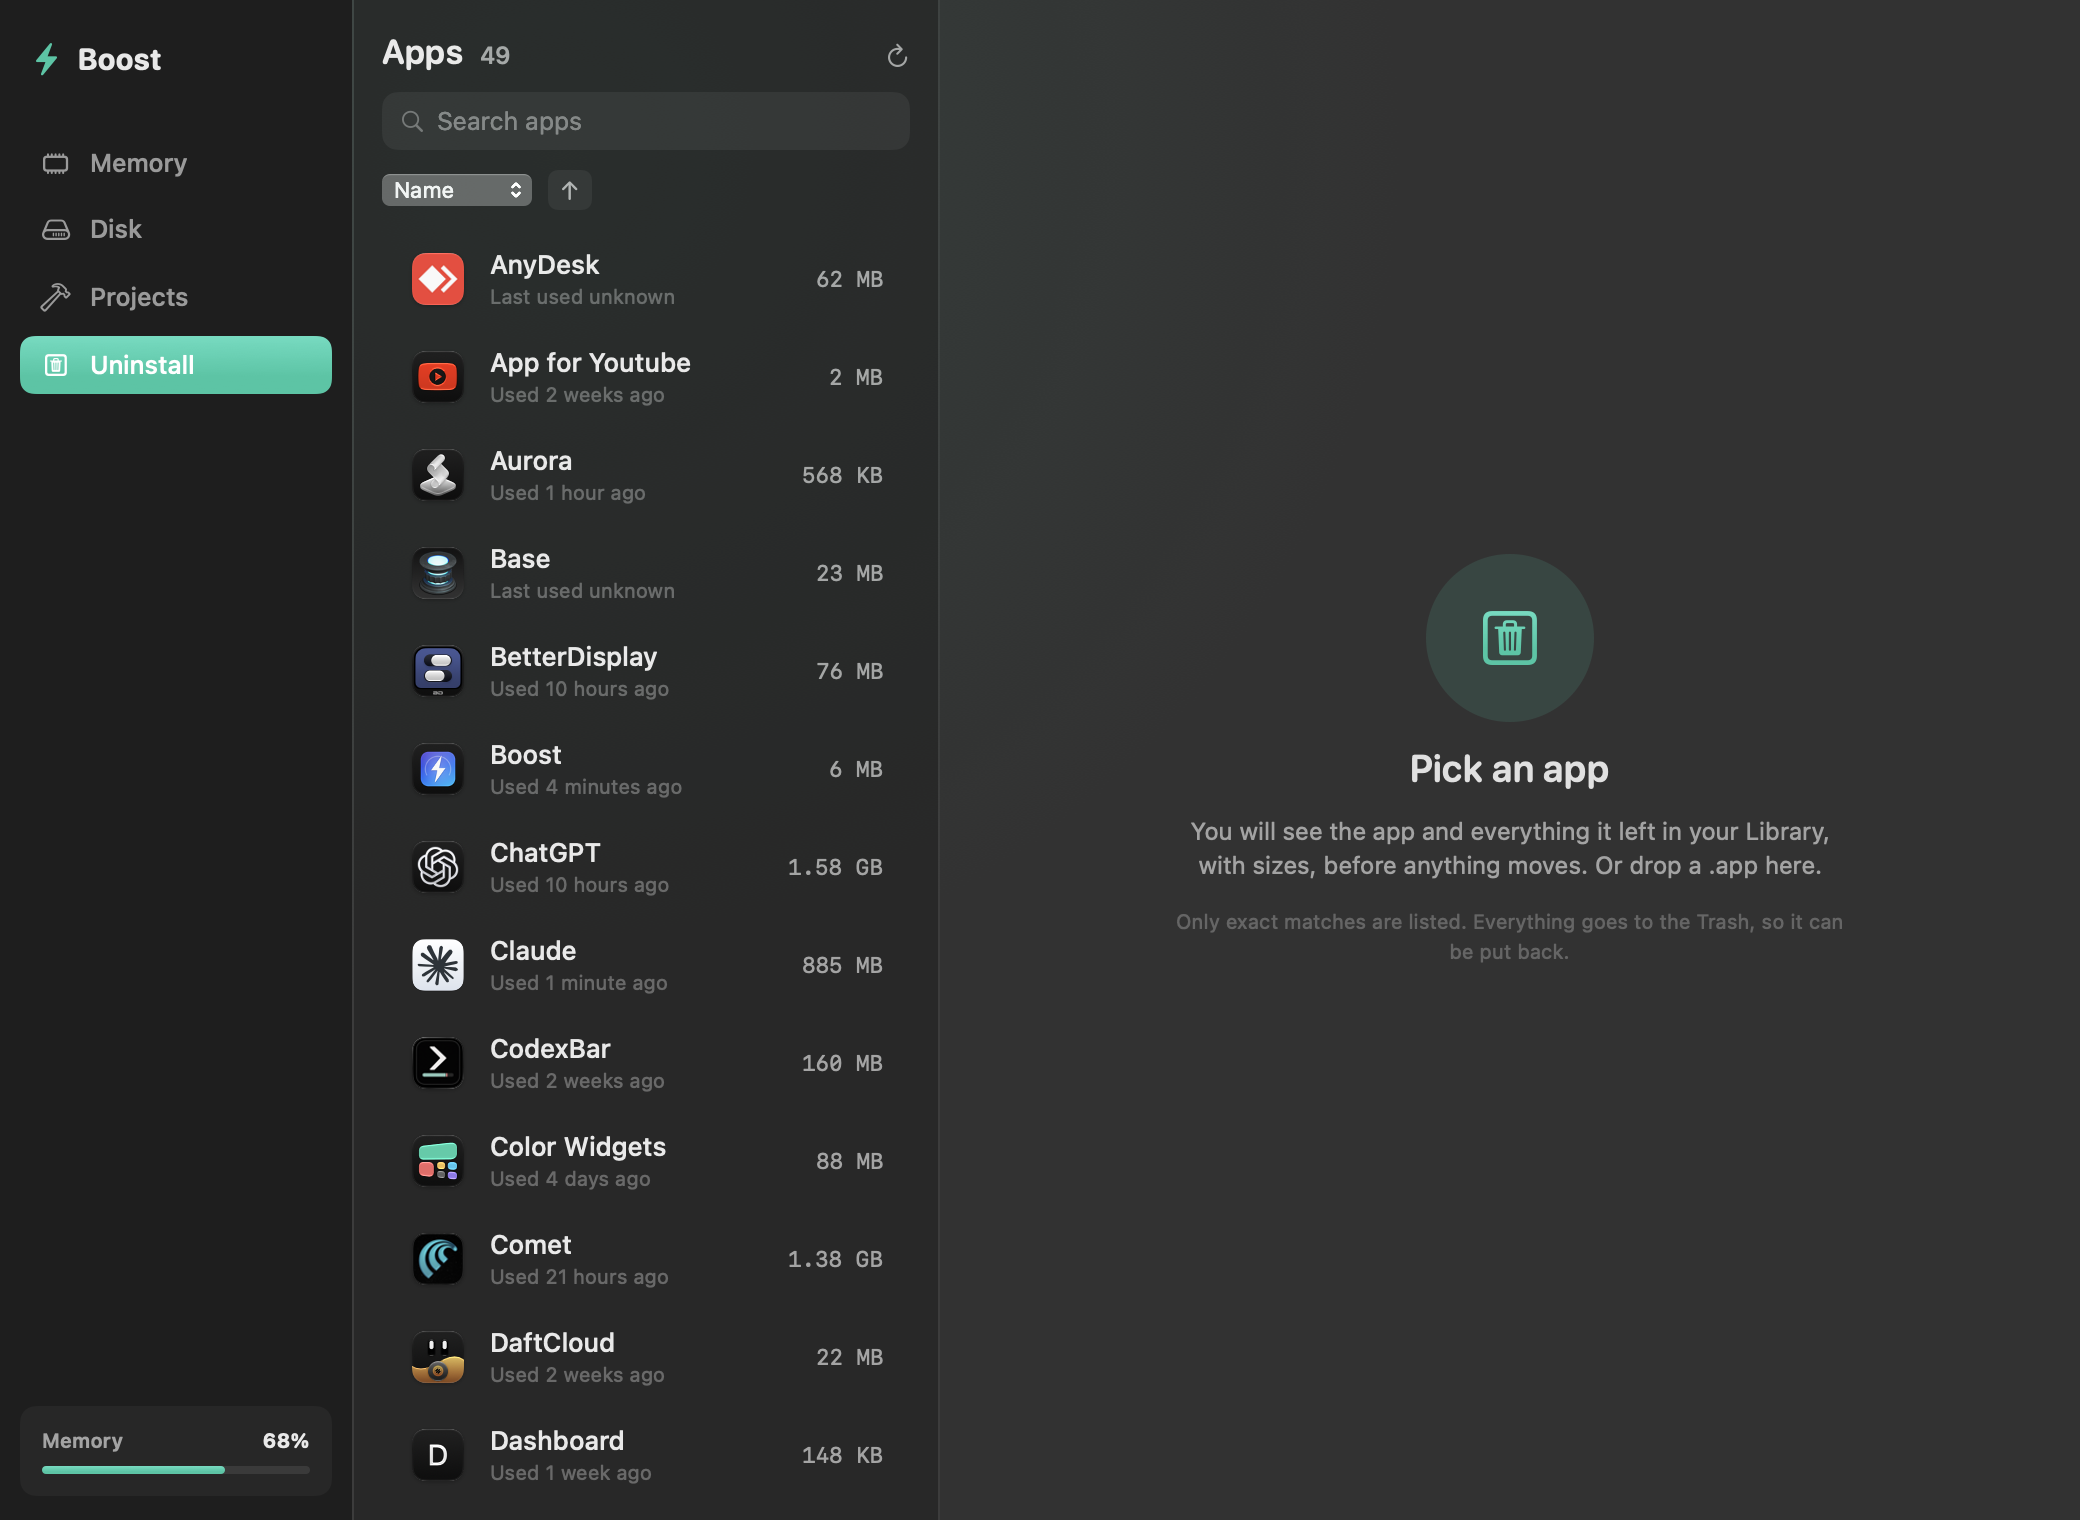
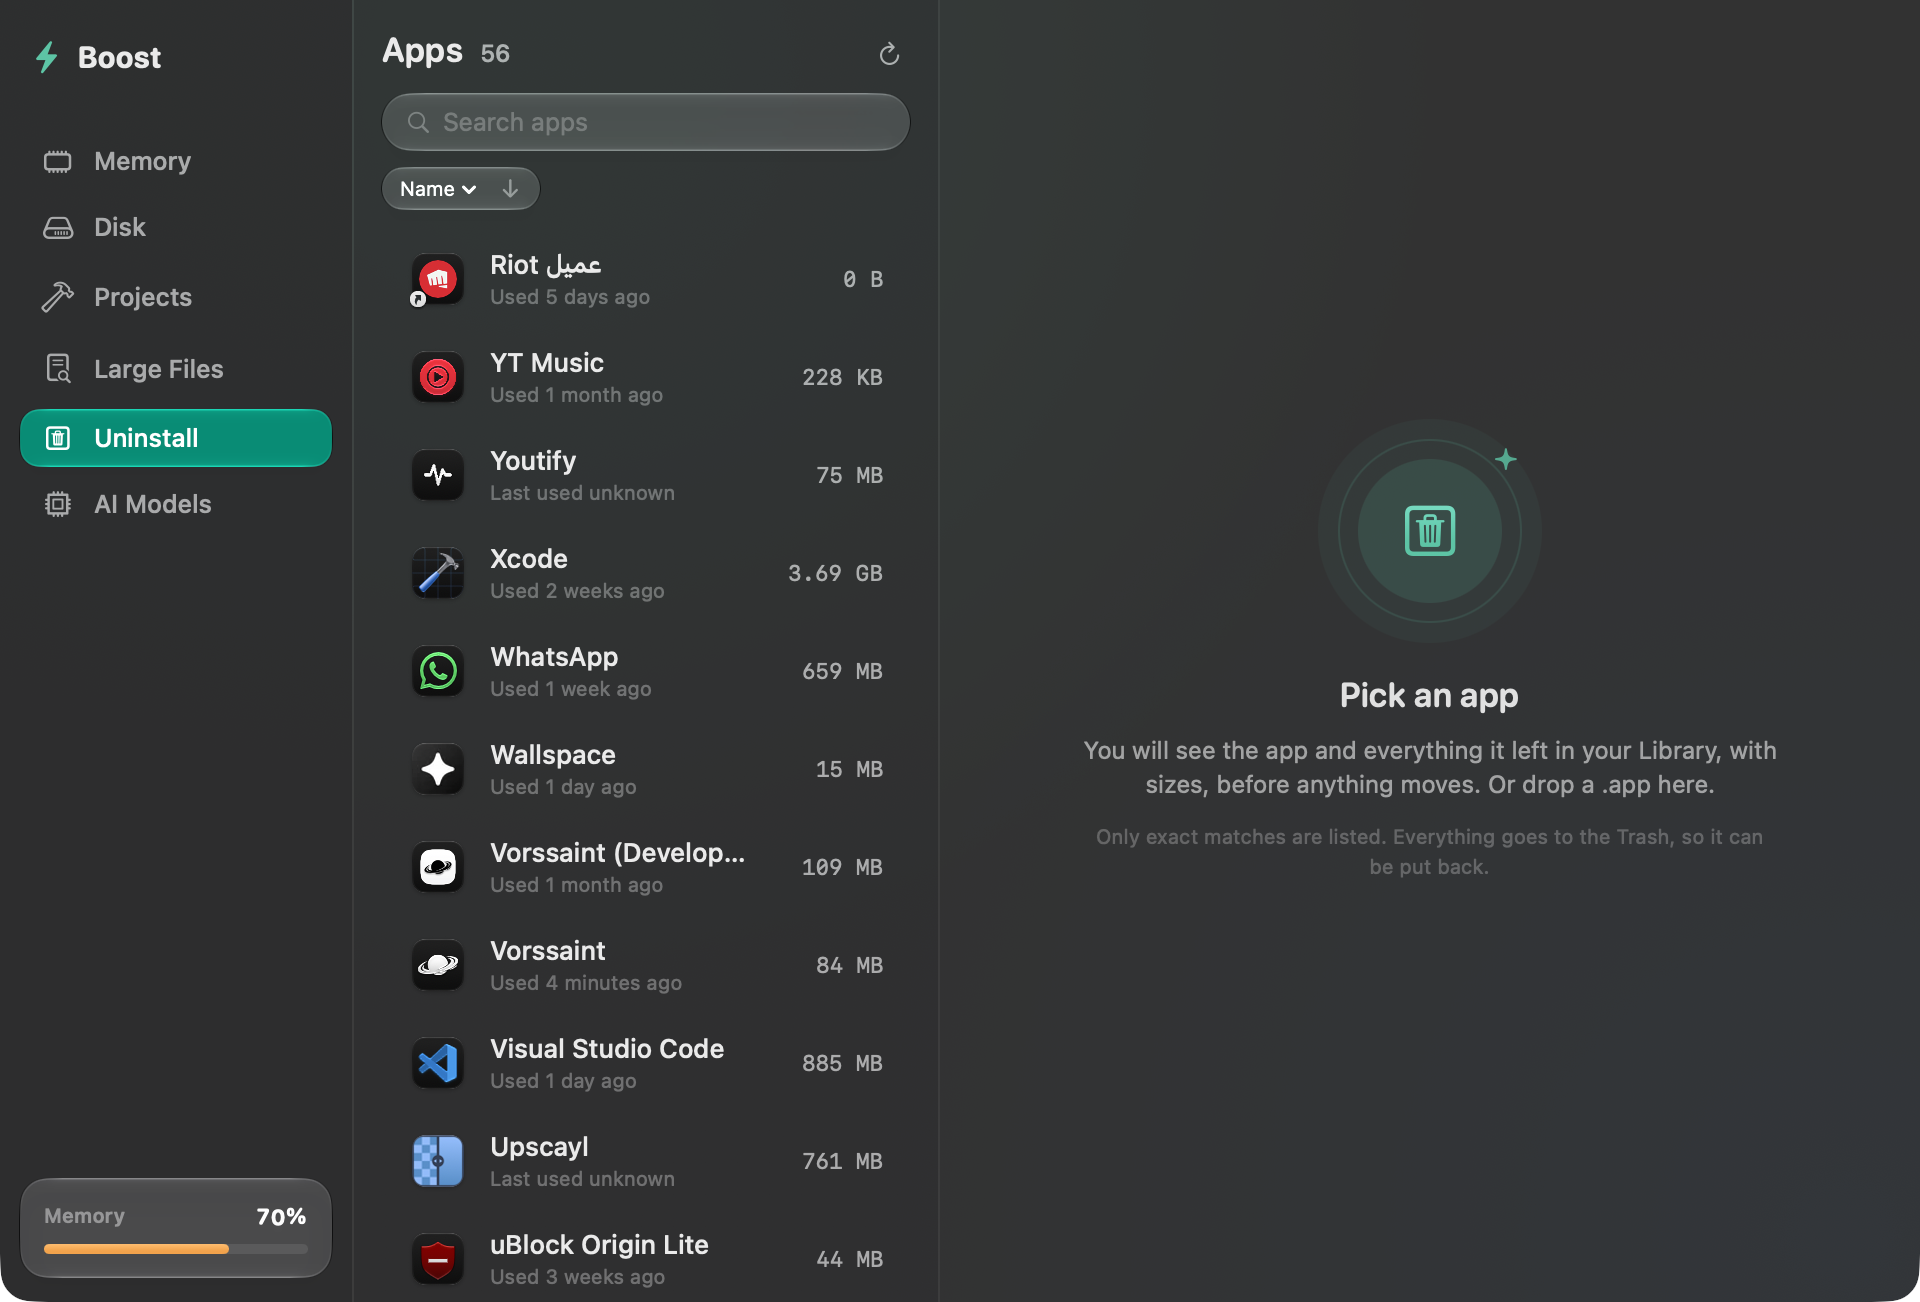
Show Docker's size on disk, refresh the screenshots and bump to 1.4.1

diff --git a/docs/index.html b/docs/index.html
@@ -245,15 +245,15 @@
         </div>
       </div>
       <div class="shot-stage">
-        <img class="shot on" src="assets/img/memory.png" alt="Boost's Memory tab: a pressure gauge, a history chart, and running apps grouped with their helper processes." width="2080" height="1520">
-        <img class="shot" src="assets/img/disk.png" alt="Boost's Disk tab, listing reclaimable caches with an explanation of each one and nothing ticked by default." width="2080" height="1520" loading="lazy" aria-hidden="true">
-        <img class="shot" src="assets/img/uninstall.png" alt="Boost's Uninstall tab: a searchable list of installed apps with sizes and when each was last used." width="2080" height="1520" loading="lazy" aria-hidden="true">
+        <img class="shot on" src="assets/img/memory.png" alt="Boost's Memory tab: a pressure gauge, a history chart, and running apps grouped with their helper processes." width="1920" height="1302">
+        <img class="shot" src="assets/img/disk.png" alt="Boost's Disk tab, listing reclaimable caches with an explanation of each one and nothing ticked by default." width="1920" height="1302" loading="lazy" aria-hidden="true">
+        <img class="shot" src="assets/img/uninstall.png" alt="Boost's Uninstall tab: a searchable list of installed apps with sizes and when each was last used." width="1920" height="1302" loading="lazy" aria-hidden="true">
         <img class="shot" src="assets/img/ai-models.png" alt="Boost's AI Models tab: Ollama and Hugging Face models with sizes and when each was last used, nothing ticked." width="1920" height="1302" loading="lazy" aria-hidden="true">
         <div class="markers" id="shotMarkers" aria-hidden="true">
-          <span class="marker" style="left:21.4%;top:10.6%">1</span>
-          <span class="marker" style="left:40.5%;top:14.6%">2</span>
-          <span class="marker" style="left:35.1%;top:52%">3</span>
-          <span class="marker" style="left:79.3%;top:6.9%">4</span>
+          <span class="marker" style="left:23%;top:12%">1</span>
+          <span class="marker" style="left:60.8%;top:12.5%">2</span>
+          <span class="marker" style="left:21.6%;top:58.5%">3</span>
+          <span class="marker" style="left:76.7%;top:8.9%">4</span>
         </div>
       </div>
       <div class="shot-foot">

diff --git a/Sources/BoostKit/DiskScan.swift b/Sources/BoostKit/DiskScan.swift
@@ -321,8 +321,7 @@ public enum DiskScan {
     /// make macOS ask for permission. A plain `attributesOfItem` on a single
     /// path is the whole read, and any failure means "do not show it".
     ///
-    /// The image is a sparse file, so this is the size it may grow to, not
-    /// necessarily what it takes on disk right now.
+    /// The size is what the file takes on disk now, not its sparse length.
     public static func dockerImage(home overrideHome: URL? = nil) -> DockerImage? {
         let h = overrideHome ?? home
         let base = "Library/Containers/com.docker.docker/Data"
@@ -337,7 +336,13 @@ public enum DiskScan {
             guard let attrs = try? FileManager.default.attributesOfItem(atPath: url.path),
                   attrs[.type] as? FileAttributeType == .typeRegular,
                   let size = (attrs[.size] as? NSNumber)?.uint64Value, size > 0 else { continue }
-            return DockerImage(path: url, bytes: size)
+            // The image is sparse: its length is the most it may grow to, often
+            // hundreds of times what it takes on disk. The allocated size is the
+            // space Docker is using now, which is the number worth showing.
+            let values = try? url.resourceValues(forKeys: [.totalFileAllocatedSizeKey, .fileAllocatedSizeKey])
+            let used = UInt64(values?.totalFileAllocatedSize ?? values?.fileAllocatedSize ?? 0)
+            guard used > 0 else { continue }
+            return DockerImage(path: url, bytes: used)
         }
         return nil
     }

diff --git a/Tests/BoostKitTests/DeveloperLeftoverTests.swift b/Tests/BoostKitTests/DeveloperLeftoverTests.swift
@@ -255,7 +255,8 @@ struct DeveloperLeftoverTests {
         let f = try Fixture(); defer { f.remove() }
         try Data(repeating: 0, count: 300 * 1024).write(to: try dockerDir(f).appending(path: "Docker.raw"))
         let info = try #require(DiskScan.dockerImage(home: f.home))
-        #expect(info.bytes == 300 * 1024)
+        // On disk, so rounded up to whole blocks.
+        #expect(info.bytes >= 300 * 1024 && info.bytes < 340 * 1024)
         #expect(info.path.lastPathComponent == "Docker.raw")
     }
 
@@ -263,7 +264,8 @@ struct DeveloperLeftoverTests {
     func dockerQcow2() throws {
         let f = try Fixture(); defer { f.remove() }
         try Data(repeating: 0, count: 10 * 1024).write(to: try dockerDir(f).appending(path: "Docker.qcow2"))
-        #expect(DiskScan.dockerImage(home: f.home)?.bytes == 10 * 1024)
+        let bytes = try #require(DiskScan.dockerImage(home: f.home)).bytes
+        #expect(bytes >= 10 * 1024 && bytes < 20 * 1024)
     }
 
     /// The folder holds only a file this code never names. A reader that listed

diff --git a/Sources/BoostKit/DiskView.swift b/Sources/BoostKit/DiskView.swift
@@ -226,7 +226,7 @@ private struct DockerInfoRow: View {
                 .buttonStyle(.bordered)
                 .controlSize(.small)
 
-            Text("up to \(fmtBytes(image.bytes))")
+            Text(fmtBytes(image.bytes))
                 .font(.system(size: 12, design: .monospaced))
                 .foregroundStyle(.secondary)
                 .frame(width: 110, alignment: .trailing)

diff --git a/docs/assets/css/sections.css b/docs/assets/css/sections.css
@@ -270,7 +270,7 @@ section[id] { scroll-margin-top: 54px; }
 
 .shot-stage {
   position: relative;
-  aspect-ratio: 2080 / 1520;
+  aspect-ratio: 1920 / 1302;
   background: #0b0f0e;
   overflow: hidden;
 }
